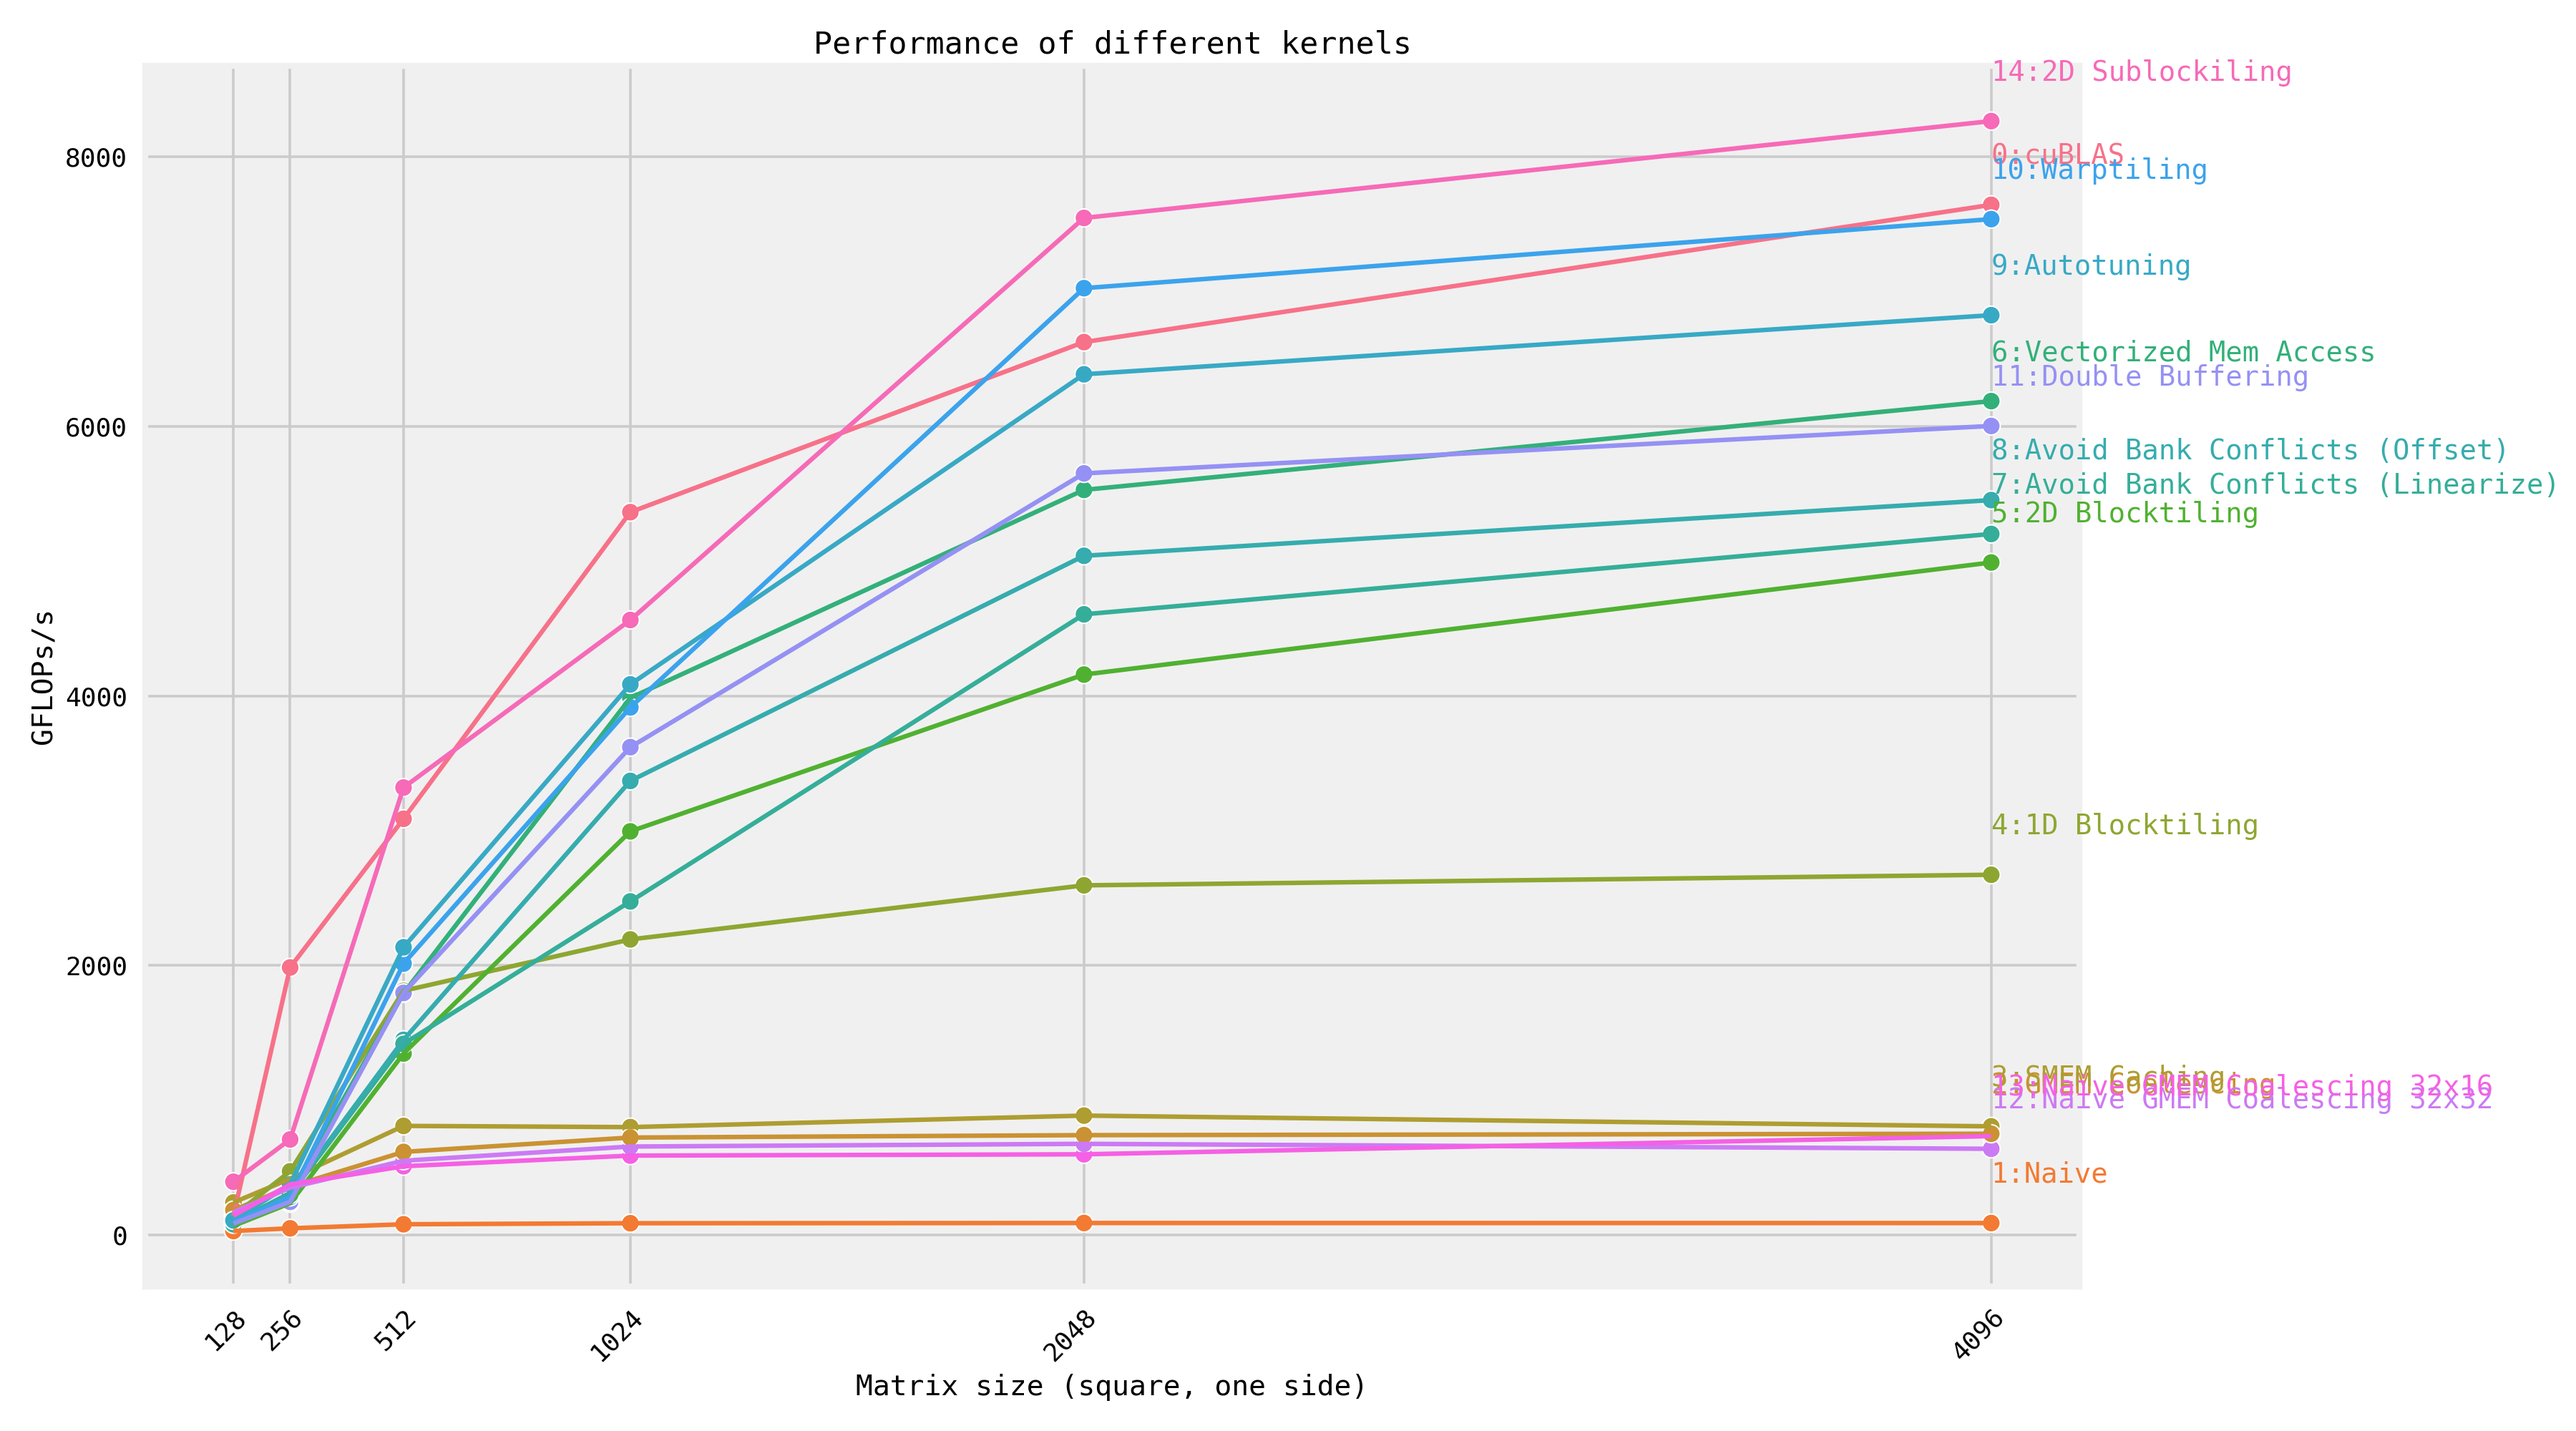
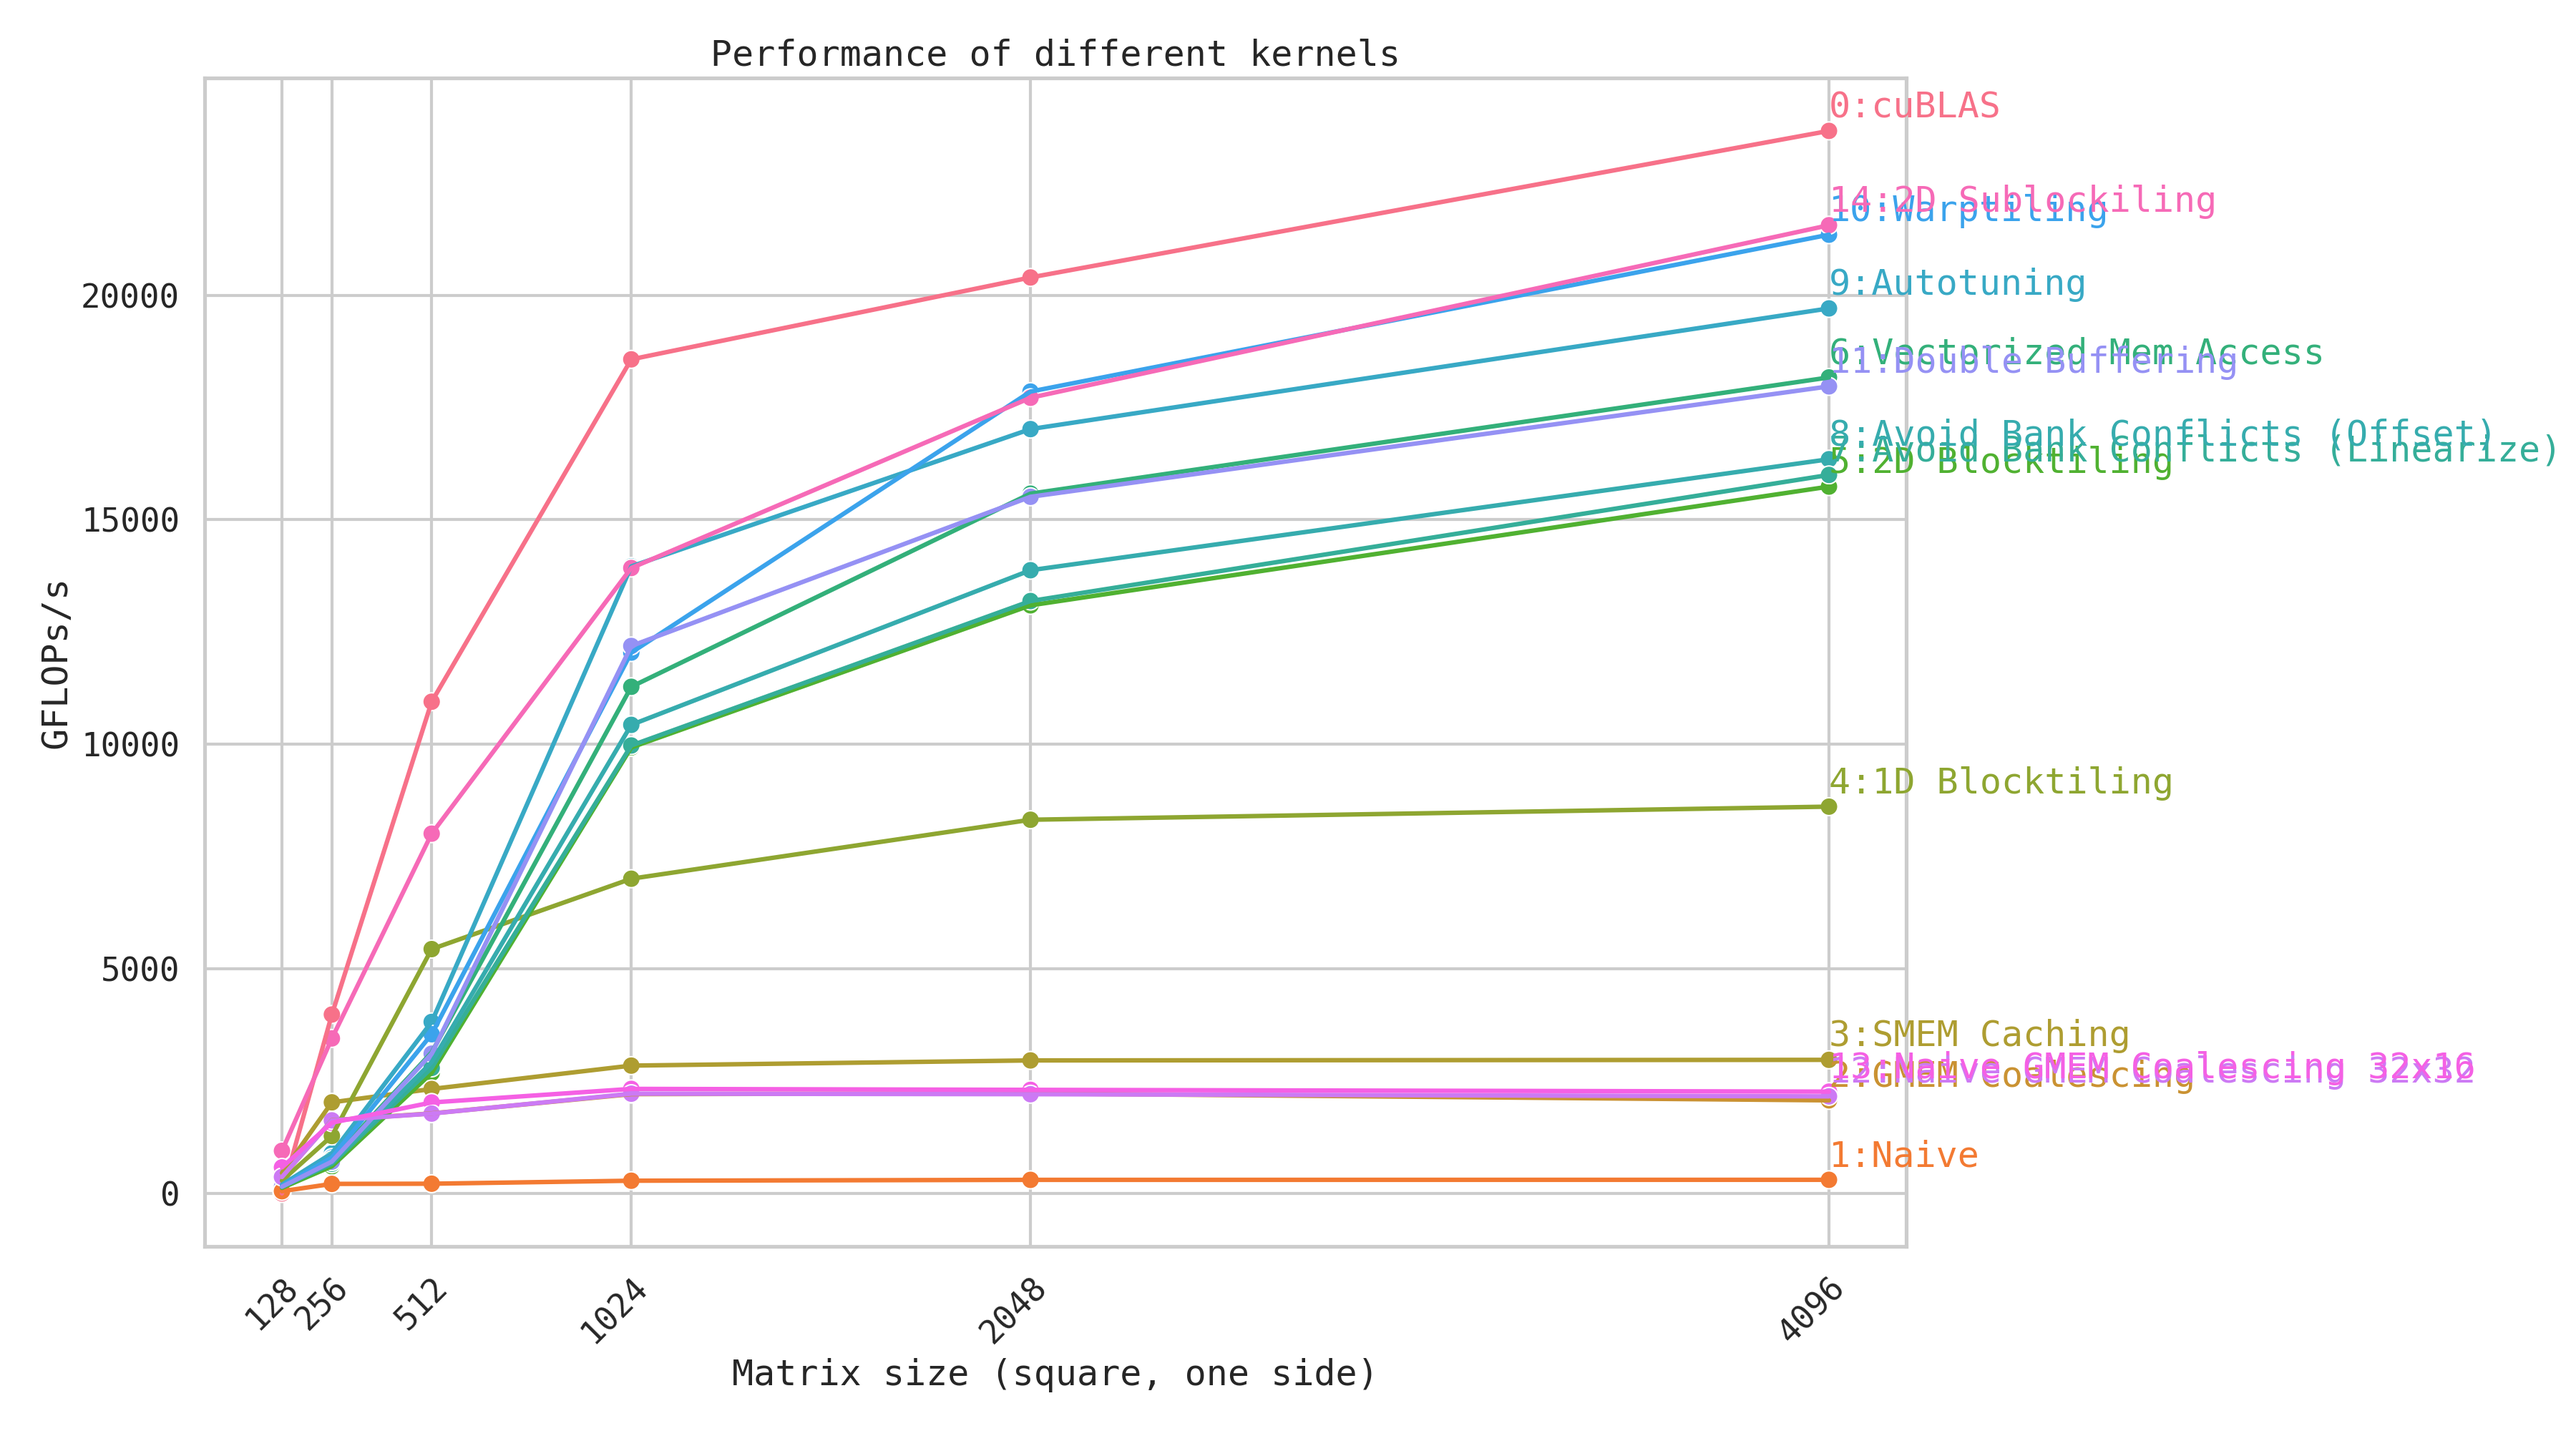
Add results for RTX A6000.

diff --git a/README.md b/README.md
@@ -5,12 +5,7 @@ For an explanation of each kernel, see [siboehm.com/CUDA-MMM](https://siboehm.co
 
 ## Overview
 
-Running the kernels on a NVIDIA RTX 3070 Ti Mobile (Ampere)
-
-Clocks [locked to base values](https://salykova.github.io/sgemm-gpu) for profiling:
-
-   - nvidia-smi --lock-gpu-clocks=1035
-   - nvidia-smi --lock-memory-clocks=7001
+Running the kernels on a NVIDIA A6000 (Ampere):
 
 ![](benchmark_results.png)
 
@@ -18,21 +13,21 @@ GFLOPs at matrix size 4096x4096:
 <!-- benchmark_results -->
 | Kernel                              |   GFLOPs/s | Performance relative to cuBLAS   |
 |:------------------------------------|-----------:|:---------------------------------|
-| 1: Naive                            |       89   | 1.2%                             |
-| 12: Naive GMEM Coalescing 32x32     |      640.2 | 8.4%                             |
-| 13: Naive GMEM Coalescing 32x16     |      734.1 | 9.6%                             |
-| 2: GMEM Coalescing                  |      751.8 | 9.8%                             |
-| 3: SMEM Caching                     |      806.6 | 10.6%                            |
-| 4: 1D Blocktiling                   |     2673.8 | 35.0%                            |
-| 5: 2D Blocktiling                   |     4991.2 | 65.3%                            |
-| 7: Avoid Bank Conflicts (Linearize) |     5202.9 | 68.1%                            |
-| 8: Avoid Bank Conflicts (Offset)    |     5454.2 | 71.3%                            |
-| 11: Double Buffering                |     6004.5 | 78.5%                            |
-| 6: Vectorized Mem Access            |     6188.8 | 80.9%                            |
-| 9: Autotuning                       |     6826.4 | 89.3%                            |
-| 10: Warptiling                      |     7539.4 | 98.6%                            |
-| 0: cuBLAS                           |     7645.4 | 100.0%                           |
-| 14: 2D Sublockiling                 |     8266.9 | 108.1%                           |
+| 1: Naive                            |      306.8 | 1.3%                             |
+| 2: GMEM Coalescing                  |     2075.3 | 8.8%                             |
+| 12: Naive GMEM Coalescing 32x32     |     2164   | 9.1%                             |
+| 13: Naive GMEM Coalescing 32x16     |     2269.8 | 9.6%                             |
+| 3: SMEM Caching                     |     2977.3 | 12.6%                            |
+| 4: 1D Blocktiling                   |     8614.2 | 36.4%                            |
+| 5: 2D Blocktiling                   |    15739.4 | 66.5%                            |
+| 7: Avoid Bank Conflicts (Linearize) |    15999.3 | 67.6%                            |
+| 8: Avoid Bank Conflicts (Offset)    |    16348.5 | 69.1%                            |
+| 11: Double Buffering                |    17970.5 | 76.0%                            |
+| 6: Vectorized Mem Access            |    18169.4 | 76.8%                            |
+| 9: Autotuning                       |    19706.4 | 83.3%                            |
+| 10: Warptiling                      |    21347.5 | 90.2%                            |
+| 14: 2D Sublocktiling                 |    21558   | 91.1%                            |
+| 0: cuBLAS                           |    23658.5 | 100.0%                           |
 <!-- benchmark_results -->
 
 ## Setup
